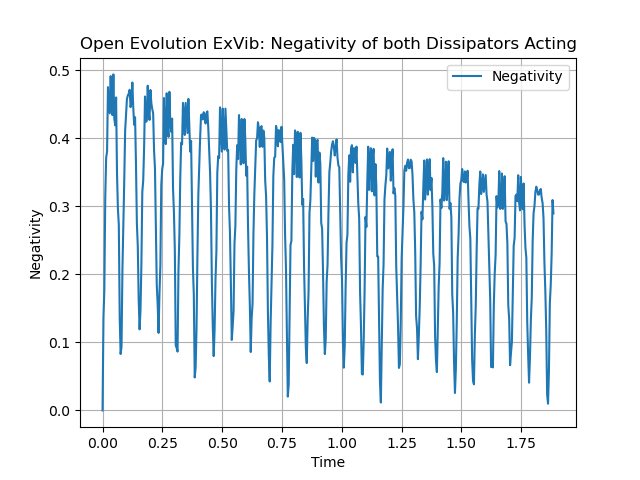
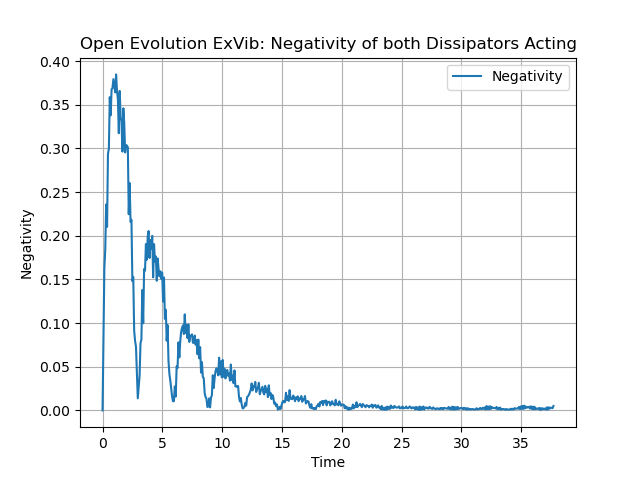
Improves Exciton-Vibration plots by increasing time to see envelope oscillations.

diff --git a/Research Project/Code/ExVib_Open.py b/Research Project/Code/ExVib_Open.py
@@ -11,7 +11,7 @@ import math
 # g = w*(0.0578)^0.5 = 267 cm^-1
 # Moreover, T ~ 300K room temp expt.
 
-t_max = 10.0 # ps
+t_max = 500.0 # ps
 tlist = np.linspace(0.0, 2 *np.pi * 0.03 * t_max , 500)  
 # TODO : conversion within class tlist_cm = tlist * 2 *np.pi * 3**(-2)  
 # t in cm conversion, noting original time is in ps

diff --git a/Research Project/Code/ExVib_Closed.py b/Research Project/Code/ExVib_Closed.py
@@ -11,7 +11,7 @@ import math
 # g = (0.0578)^0.5 = 267 cm^-1
 # Moreover, T ~ 300K room temp expt.
 
-t_max = 10.0 # ps
+t_max = 30.0 # ps
 tlist = np.linspace(0.0, 2 *np.pi * 0.03 * t_max , 500)  
 # TODO : conversion within class tlist_cm = tlist * 2 *np.pi * 3**(-2)  
 # t in cm conversion, noting original time is in ps
